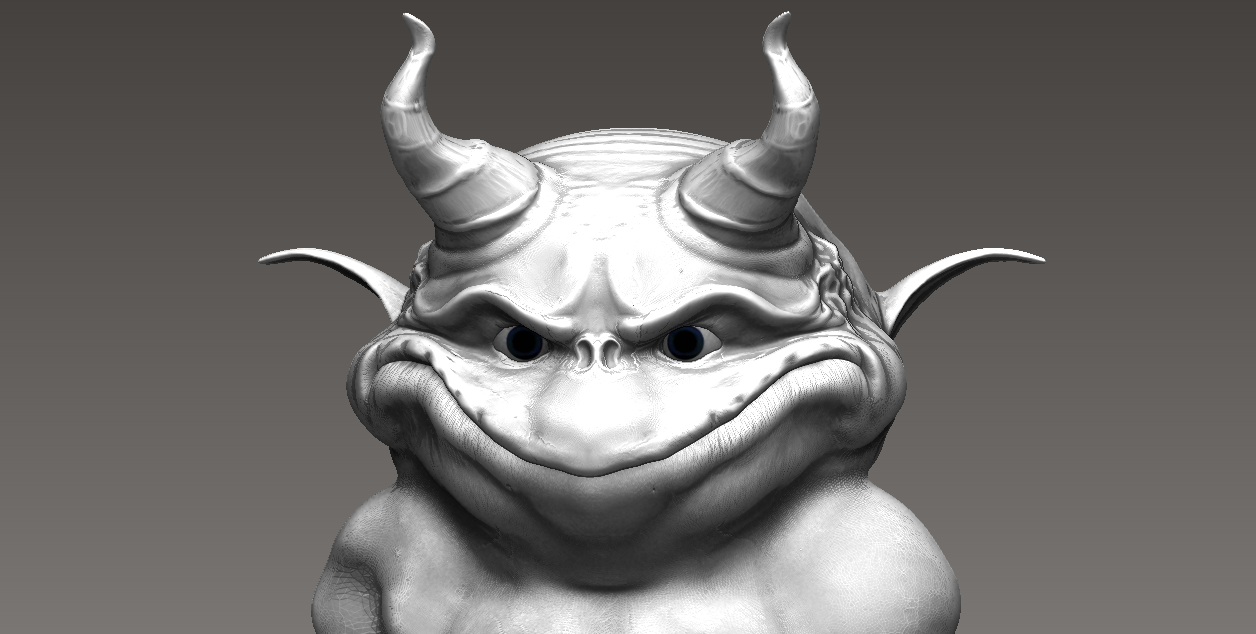
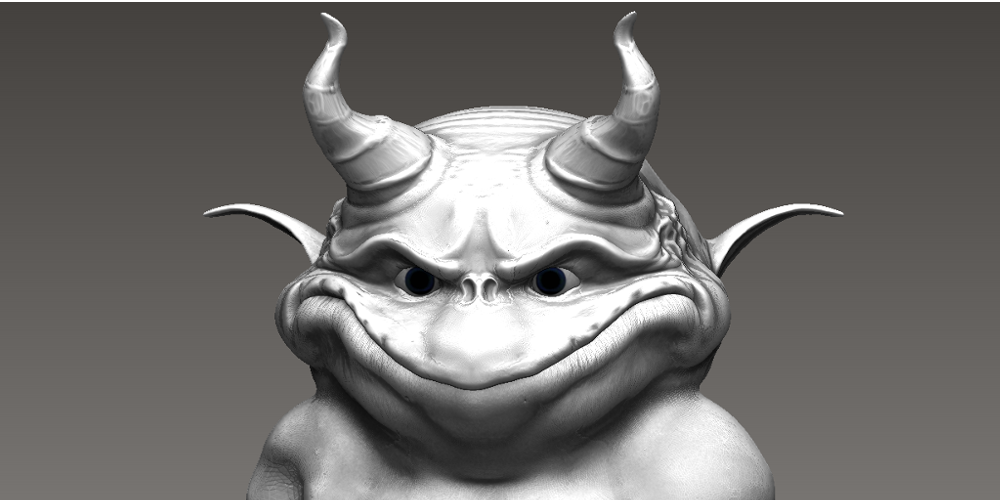
dm4

Changed region(s): [[0.0, 0.0, 1.0, 1.0]]

diff --git a/_posts/2018-04-24-personalWork.md b/_posts/2018-04-24-personalWork.md
@@ -7,7 +7,7 @@ isPost: true
 <img src= "/assets/personal/octopus_allviews.png" width="494" height="125" alt="OctAllviews"><br>
 <img src= "/assets/personal/octopus01.gif" width="500" height="250" alt="OctopusTurnTable"><br>
 <img src= "/assets/personal/personalplatypus.gif" width="500" height="250" alt="Platypus"><br>
-<img src= "/assets/personal/demonhead_03.png" width="628" height="317" alt="DemonFun"><br>
+<img src= "/assets/personal/demonhead_03.png" width="500" height="250" alt="DemonFun"><br>
 <img src= "/assets/personal/DMs4.gif" width="500" height="250" alt="DangerMouse"><br>
 <img src= "/assets/personal/GobbyExpression.gif" width="500" height="250" alt="zombieGirl"><br>
 <img src= "/assets/personal/zombieGirl.png" width="400" height="194" alt="zombieGirl"><br>
